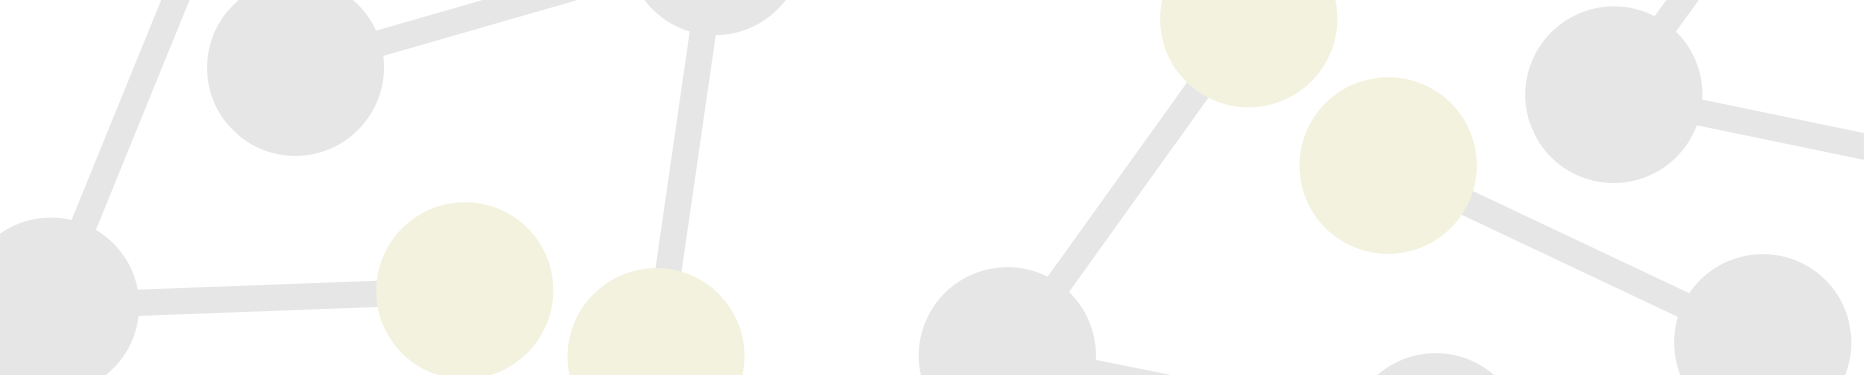
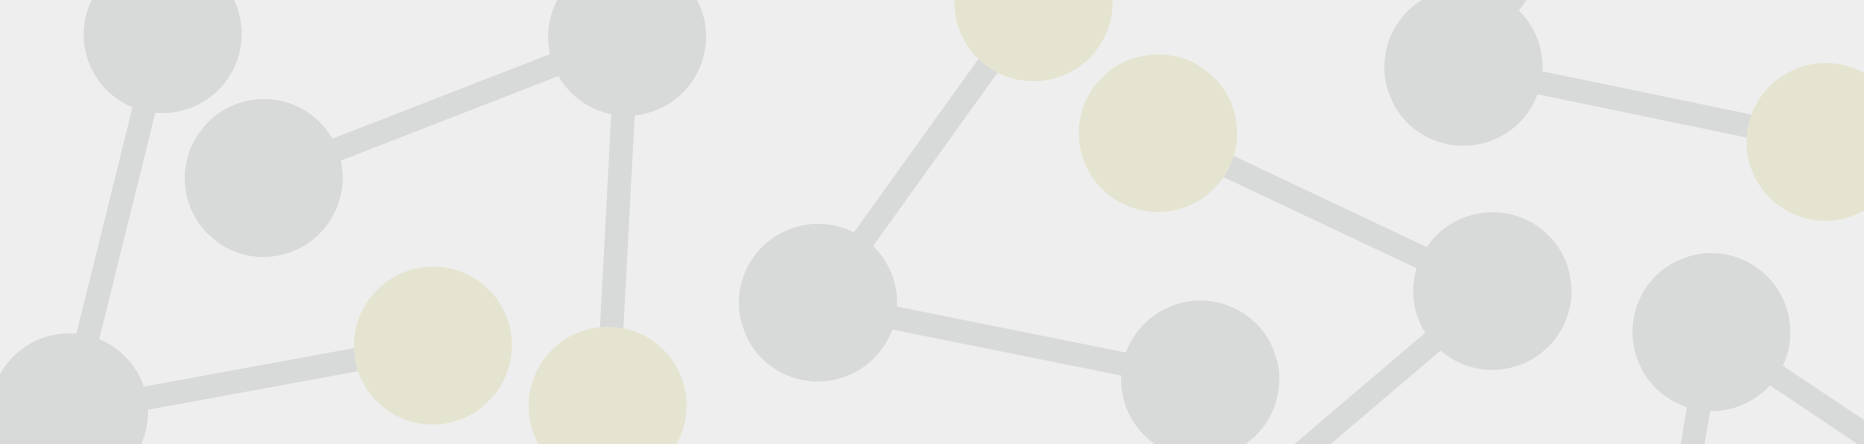
Add parallax to home page.

diff --git a/css/main.css b/css/main.css
@@ -26,6 +26,12 @@ iframe {
 .center-block {
   float: none;
 }
+#main2 {
+  position: relative;
+  background-color: white;
+  margin-top: 375px;
+  padding-top: 20px;
+}
 
 /*
  * Typography
@@ -136,15 +142,41 @@ a:focus {
  * Jumbotron
  */
 
-.jumbotron {
+
+.bg {
   background: url(/img/molecules.png) no-repeat center center;
-  background-size: cover;
-  background-color: #EEE;
+  position: fixed;
+  width: 100%;
+  height: 375px;
+  top:0;
+  left:0;
+  z-index: -1;
+  margin-top: 54px;
+}
+.jumbotron {
+  background-color: transparent;
   height: 375px;
   max-width: 1864px;
   margin-left: auto;
   margin-right: auto;
   text-align: center;
+}
+.jumbotron > .container {
+	/* fixed position a zero-height full width container */
+	position: fixed;
+	top: 0;
+	left: 0;
+	right: 0;
+	height: 0;
+  padding-top: 120px;
+	/* center all inline content */
+	text-align: center;
+}
+.jumbotron > .container > .jumbotron-caption {
+	/* make the block inline */
+	display: inline-block;
+	/* reset container's center alignment */
+	text-align: left;
 }
 .jumbotron h1 {
   color: #BDBE5A;

diff --git a/index.html b/index.html
@@ -2,11 +2,10 @@
 layout: default
 title: Advertising Agency, Green Bay, WI
 ---
-
-        <div class="jumbotron">
-          <div class="jumbotron-background">
-          </div>
-          <div class="container jumbotron-caption">
+        
+        <div class="bg"></div>
+        <div class="jumbotron affix">
+          <div class="container">
             <h1>Full-service creativity and marketing.</h1>
             <div class="col-md-9 center-block">
               <p>Creative insight to help you achieve your goals, from big picture strategy to fine details of design, copywriting, social media and media buying, all in-house.</p>
@@ -14,7 +13,7 @@ title: Advertising Agency, Green Bay, WI
           </div>
         </div>
         
-        <div class="container">
+        <div class="container" id="main2">
           
           <div class="row thumbnail-gallery">
             {% for post in site.categories.work limit: 7 %}

diff --git a/_includes/footer.html b/_includes/footer.html
@@ -46,7 +46,20 @@
     <!-- Rotate header graphic -->
     <script type="text/javascript">
      var images = ['circles.png', 'molecules.png'];
-     $('.jumbotron').css({'background-image': 'url(img/' + images[Math.floor(Math.random() * images.length)] + ')'});
+     $('.bg').css({'background-image': 'url(img/' + images[Math.floor(Math.random() * images.length)] + ')'});
+    </script>
+    
+    <!-- Parallax jumbotron -->
+    <script>
+      var jumboHeight = $('.jumbotron').outerHeight();
+      function parallax(){
+          var scrolled = $(window).scrollTop();
+          $('.bg').css('height', (jumboHeight-scrolled) + 'px');
+      }
+      
+      $(window).scroll(function(e){
+          parallax();
+      });
     </script>
     
     <!-- Widon't, removes widows in text
@@ -57,6 +70,8 @@
         });
       });
     </script> -->
+      
+
     
   </body>
 </html>
